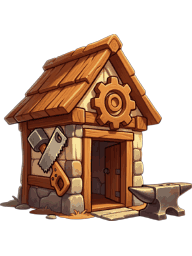
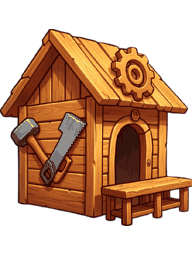
game-card-world v0.143.2: 제재소 포트레이트 추가(돌+나무), 조합소 포트레이트·아이콘 나무판자로 재생성

diff --git a/game-card-world/index.html b/game-card-world/index.html
@@ -485,7 +485,7 @@
 (() => {
 'use strict';
 
-const VERSION = 'v0.143.1';
+const VERSION = 'v0.143.2';
 const STORE = 'card-world-rpg.v2';   // v0.7.0: 기사 상태 추가로 저장 초기화
 
 // ── 카드 정의 ─────────────────────────────────────────
@@ -631,7 +631,7 @@ const fighter = d => d.kind === 'character' || d.kind === 'creature';
 const hpText = c => DEFS[c.type].immortal ? '∞' : `${c.hp}/${DEFS[c.type].hp}`;
 // 전신 포트레이트가 있는 카드 — 인스펙터 오른쪽 아래 (images/portrait/portrait_<id>.png, v0.56.0)
 const PORTRAITS = new Set(['architect', 'hostage', 'explorer', 'knight', 'god', 'animal', 'bear', 'goblin',
-  'mountain', 'campfire', 'bedding', 'godmouth', 'dungeon', 'river', 'workbench']);   // v0.138.0: 조합소   // v0.98.0: 장소 6종   // v0.91.0: 고블린
+  'mountain', 'campfire', 'bedding', 'godmouth', 'dungeon', 'river', 'workbench', 'sawmill']);   // v0.143.2: 제재소   // v0.138.0: 조합소   // v0.98.0: 장소 6종   // v0.91.0: 고블린
 const ICON_TOKEN = /⟦(\w+)⟧/g;
 const ic = t => `⟦${t}⟧`;
 // v0.53.0: 공격·방어·체력 그림 (이모지 ⚔ 🛡 ❤ 대신) — images/icon/ui_<k>.png

diff --git a/game-card-world/docs/아이콘_목록.md b/game-card-world/docs/아이콘_목록.md
@@ -605,9 +605,9 @@ close-up face portrait, the head fills most of the frame, of a wiry middle-aged 
 <!-- icon:card_sawmill -->
 ### card_sawmill — 제재소
 - 파일: `images/icon/card_sawmill.png`
-- 생성: 2026-09-16 · seed `264460037569775` · 옵션 기본
+- 생성: 2026-09-17 · seed `129216010951561` · 옵션 기본
 ```
-an inanimate object only, no face, no eyes, no arms, no legs, no people, no creatures: a small rough timber sawmill hut, open wooden shed with a slanted plank roof, a big two-man saw and a log on a trestle beside it, stacked cut planks, isolated landmark, front three-quarter view
+an inanimate object only, no face, no eyes, no arms, no legs, no people, no creatures: a small sawmill workshop built of grey fieldstone walls and rough timber beams, a slanted wooden plank roof, a big two-man saw and a log on a trestle beside it, stacked cut planks, isolated landmark, front three-quarter view
 ```
 <!-- /icon -->
 
@@ -695,9 +695,9 @@ an inanimate object only, no face, no eyes, no arms, no legs, no people, no crea
 <!-- icon:card_workbench -->
 ### card_workbench — 조합소
 - 파일: `images/icon/card_workbench.png`
-- 생성: 2026-09-17 · seed `35243617877176` · 옵션 `--bg white`
+- 생성: 2026-09-17 · seed `59899694438257` · 옵션 `--bg white`
 ```
-an inanimate object only, no face, no eyes, no arms, no legs, no people, no creatures: a small rustic crafting workshop building with a sloped wooden roof and stone foundation, a huge oversized hammer and a big hand saw mounted on its front wall, a large wooden gear sign hanging above the open door, a sturdy anvil outside, three-quarter view
+an inanimate object only, no face, no eyes, no arms, no legs, no people, no creatures: a small rustic crafting workshop building made entirely of long sawn wooden planks, plank walls and a sloped plank roof, no stone, a huge oversized hammer and a big hand saw mounted on its front wall, a large wooden gear sign hanging above the open door, a sturdy wooden workbench outside, three-quarter view
 ```
 <!-- /icon -->
 
@@ -722,8 +722,17 @@ full body, facing left, a person sitting on the ground hugging bent knees, head 
 <!-- icon:portrait_workbench -->
 ### portrait_workbench — 조합소
 - 파일: `images/portrait/portrait_workbench.png`
-- 생성: 2026-09-17 · seed `101861015432432` · 옵션 `--kind place`
+- 생성: 2026-09-17 · seed `27289855445513` · 옵션 `--kind place`
 ```
-an inanimate object only, no face, no eyes, no arms, no legs, no people, no creatures: a small rustic crafting workshop building with a sloped wooden roof and stone foundation, a huge oversized hammer and a big hand saw mounted on its front wall, a large wooden gear sign hanging above the open door, a sturdy anvil outside, empty scenery only
+an inanimate object only, no face, no eyes, no arms, no legs, no people, no creatures: a small rustic crafting workshop building made entirely of long sawn wooden planks, plank walls and a sloped plank roof, no stone, a huge oversized hammer and a big hand saw mounted on its front wall, a large wooden gear sign hanging above the open door, a sturdy wooden workbench outside, empty scenery only
+```
+<!-- /icon -->
+
+<!-- icon:portrait_sawmill -->
+### portrait_sawmill — 제재소
+- 파일: `images/portrait/portrait_sawmill.png`
+- 생성: 2026-09-17 · seed `250519928410904` · 옵션 `--kind place`
+```
+an inanimate object only, no face, no eyes, no arms, no legs, no people, no creatures: a small sawmill workshop built of grey fieldstone walls and rough timber beams, a slanted wooden plank roof, a big two-man saw and a log on a trestle beside it, stacked cut planks, empty scenery only
 ```
 <!-- /icon -->

diff --git a/game-card-world/docs/기능.md b/game-card-world/docs/기능.md
@@ -1644,6 +1644,12 @@
 - [ ] 등록 나무가 없을 때(`0/10`)도 **나무 그림**을 같이 그림 (점선 칩)
 - [ ] 카드 아래 줄의 `나무 → 판자·톱밥` 조합식 없앰 → **인스펙터 조합·출현 칸 "만드는 것"**에 `나무 → 나무판자 + 톱밥`
 
-## 154. 아직 없는 것
+## 154. 제재소 포트레이트 · 조합소 그림 재질 (v0.143.2)
+- [ ] 포트레이트가 없던 장소 **제재소** 포트레이트 추가 (`portrait_sawmill`) — **돌과 나무로 지은** 제재소 (짓는 재료가 나무 5 · 돌 5)
+- [ ] **조합소** 포트레이트 다시 생성 — **나무판자로만 지은** 공방 (짓는 재료가 나무판자 5). 돌 벽·모루 없앰
+- [ ] 두 장소의 **카드 아이콘도 같은 문구로 다시 생성** (포트레이트와 카드가 달라 보이지 않게)
+  - 판단: 아이콘까지 다시 뽑은 건 "포트레이트는 카드 아이콘 문구를 그대로 가져온다"는 기존 규칙 때문
+
+## 155. 아직 없는 것
 - 판, 출전, 전투, 체력 감소, 부활
 - container 여러 종류, party
